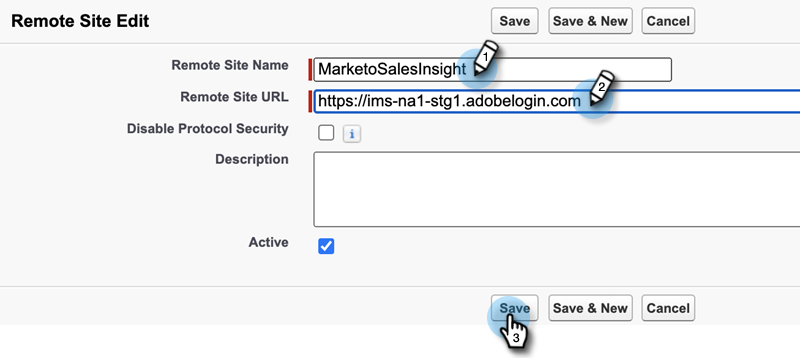
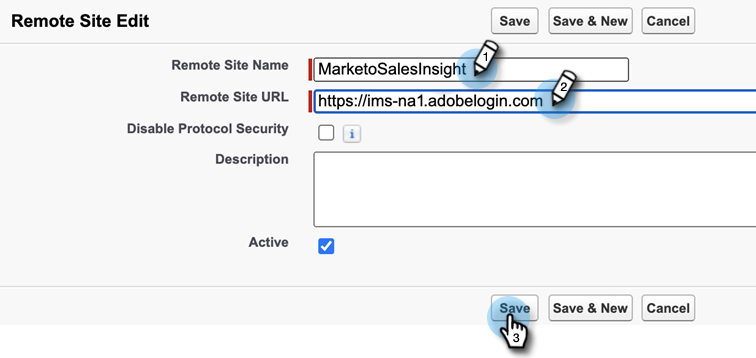
two ambika docs

diff --git a/help/marketo/product-docs/marketo-sales-insight/msi-for-salesforce/configuration/configure-marketo-sales-insight-in-salesforce-enterprise-unlimited.md b/help/marketo/product-docs/marketo-sales-insight/msi-for-salesforce/configuration/configure-marketo-sales-insight-in-salesforce-enterprise-unlimited.md
@@ -52,7 +52,7 @@ Here are the steps you need to take to configure Marketo Sales Insight in Salesf
 
    ![](assets/configure-marketo-sales-insight-in-salesforce-professional-edition-6.png)
 
-1. Search for “remote site" and select **Remote Site Settings**.
+1. Search for "remote site" and select **Remote Site Settings**.
 
    ![](assets/configure-marketo-sales-insight-in-salesforce-professional-edition-7.png)
 
@@ -60,7 +60,7 @@ Here are the steps you need to take to configure Marketo Sales Insight in Salesf
 
    ![](assets/configure-marketo-sales-insight-in-salesforce-professional-edition-8.png)
 
-1. Enter the Remote Site Name (it can be something like “MarketoSoapAPI”). Enter Remote Site URL, which is your Marketo Host URL from the Soap API Configuration panel in Marketo. Click **Save**. You have now created remote site settings for Soap API.
+1. Enter the Remote Site Name (it can be something like "MarketoSoapAPI"). Enter Remote Site URL, which is your Marketo Host URL from the Soap API Configuration panel in Marketo. Click **Save**. You have now created remote site settings for Soap API.
 
    ![](assets/configure-marketo-sales-insight-in-salesforce-professional-edition-9.png)
 
@@ -68,7 +68,7 @@ Here are the steps you need to take to configure Marketo Sales Insight in Salesf
 
    ![](assets/configure-marketo-sales-insight-in-salesforce-professional-edition-10.png)
 
-1. Enter the Remote Site Name (it can be something like “MarketoAPI”). Enter Remote Site URL, which is your API URL from Rest API Configuration panel in Marketo. Click **Save**. You have now created remote site settings for Rest API.
+1. Enter the Remote Site Name (it can be something like "MarketoAPI"). Enter Remote Site URL, which is your API URL from Rest API Configuration panel in Marketo. Click **Save**. You have now created remote site settings for Rest API.
 
    >[!NOTE]
    >
@@ -281,21 +281,19 @@ Marketo person fields need to be mapped to Salesforce contact fields to ensure t
     </tbody> 
    </table>
 
-1. Click **Save** when you’re done.
+1. Click **Save** when you're done.
 
 ## Marketo Sales Insight Configuration Tab {#marketo-sales-insight-configuration-tab}
 
 1. In Salesforce, click the **+** at the end of the tab bar and click **Marketo Sales Insight Config**.
 
-1. Select the **Enable Marketo API** checkbox.
+1. Copy the credentials from the Soap API panel in [Marketo's Sales Insight Admin page](/help/marketo/product-docs/marketo-sales-insight/msi-for-salesforce/configuration/configure-marketo-sales-insight-in-salesforce-professional-edition.md#set-up-marketo-sales-insight){target="_blank"} and paste them into the Soap API section of the Salesforce Sales Insight Configuration page.
 
-1. Copy the credentials from the Soap API panel in [Marketo’s Sales Insight Admin page](/help/marketo/product-docs/marketo-sales-insight/msi-for-salesforce/configuration/configure-marketo-sales-insight-in-salesforce-professional-edition.md#set-up-marketo-sales-insight){target="_blank"} and paste them into the Soap API section of the Salesforce Sales Insight Configuration page.
-
-1. Copy the credentials from the Rest API panel in [Marketo’s Sales Insight Admin page](/help/marketo/product-docs/marketo-sales-insight/msi-for-salesforce/configuration/configure-marketo-sales-insight-in-salesforce-professional-edition.md#set-up-marketo-sales-insight){target="_blank"} and paste them into the Rest API section of the Salesforce Sales Insight Configuration page.
+1. Copy the credentials from the Rest API panel in [Marketo's Sales Insight Admin page](/help/marketo/product-docs/marketo-sales-insight/msi-for-salesforce/configuration/configure-marketo-sales-insight-in-salesforce-professional-edition.md#set-up-marketo-sales-insight){target="_blank"} and paste them into the Rest API section of the Salesforce Sales Insight Configuration page.
 
    ![](assets/configure-marketo-sales-insight-in-salesforce-enterprise-edition-25.png)
 
-And that’s it! You should be able to see the Marketo Sales Insight fields for Leads, Contacts, Accounts and Opportunities.
+And that's it! You should be able to see the Marketo Sales Insight fields for Leads, Contacts, Accounts and Opportunities.
 
 >[!NOTE]
 >

diff --git a/help/marketo/product-docs/marketo-sales-insight/actions/crm/salesforce-configuration/sales-insight-actions-configuration-in-salesforce.md b/help/marketo/product-docs/marketo-sales-insight/actions/crm/salesforce-configuration/sales-insight-actions-configuration-in-salesforce.md
@@ -16,16 +16,22 @@ exl-id: 2d842886-3501-4aca-96fb-0d6763ab2b01
 
    ![](assets/msi-actions-configuration-in-salesforce-1.png)
 
-1. Search for “remote site" and select **Remote Site Settings**.
+1. Search for "remote site" and select **Remote Site Settings**.
    ![](assets/msi-actions-configuration-in-salesforce-2.png)
 
 1. Click **New Remote Site**.
 
    ![](assets/msi-actions-configuration-in-salesforce-3.png)
 
-1. Enter the Remote Site Name (it can be something like “MarketoSalesInsight”). Enter the Remote Site URL (https://ims-na1-stg1.adobelogin.com) and click **Save**.
+1. Enter the Remote Site Name (it can be something like "MarketoSalesInsight1"). Enter the Remote Site URL `https://ims-na1.adobelogin.com` and click **Save**.
 
    ![](assets/msi-actions-configuration-in-salesforce-4.png)
+
+1. Click **New Remote Site** again.
+ 
+   ![](assets/msi-actions-configuration-in-salesforce-4a.png)
+
+1. Enter the Remote Site Name (it can be something like "MarketoSalesInsight2"). Enter Remote Site URL `https://mkto-sales-connect.adobe.io` and click **Save**.
 
 ## Enabling Sales Insight Actions across the CRM {#enabling-sales-insight-actions-across-the-crm}
 
@@ -55,7 +61,7 @@ This will automatically enable all MSI Actions features outlined in the feature 
 
 >[!NOTE]
 >
->You can disable all MSI Actions features by simply unchecking the “Enable MSI Actions” checkbox.
+>You can disable all MSI Actions features by simply unchecking the "Enable MSI Actions" checkbox.
 
 ## MSI-Actions Governance {#msi-actions-governance}
 

diff --git a/help/marketo/release-notes/current.md b/help/marketo/release-notes/current.md
@@ -17,6 +17,8 @@ The following features fall under the standard release cycle and will start to b
 
 ### Next-generation Experience {#next-generation-experience}
 
+</br>
+
 * **Updated Screens in the Next-Generation Experience**: We're delivering additional, refreshed screens in the next-generation experience that offer an updated design and usability enhancements accessible via toggle switch:
 
   * Landing Page Template Details
@@ -64,6 +66,8 @@ The following features fall under the standard release cycle and will start to b
 
 ### Marketing Data Environment {#marketing-data-environment}
 
+</br>
+
 * **Adobe Privacy Service Integration**: Harmonize with Privacy Service to automate compliance with data privacy regulations across Experience Cloud products. Currently, this service is only available to Marketo Engage customers that have onboarded to the Adobe Identity Management System.
 
 <table> 
@@ -80,6 +84,8 @@ The following features fall under the standard release cycle and will start to b
 
 ### API Enhancements {#api-enhancements}
 
+</br>
+
 * **Bulk Lead Import: Salesperson association**: Parity with Lead REST API to able to associate leads with Salespersons during the bulk lead import process, reducing complexity and the number of API calls required.
 
 <table> 
@@ -95,6 +101,8 @@ The following features fall under the standard release cycle and will start to b
 </table>
 
 ### Sales Insight {#sales-insight}
+
+</br>
 
 ![(star)](assets/yellow-star.png)
 
